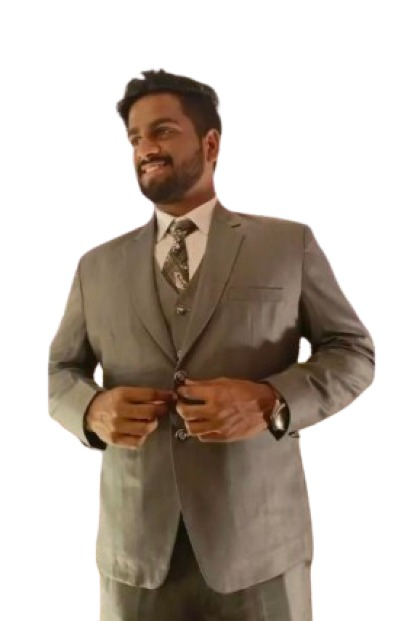
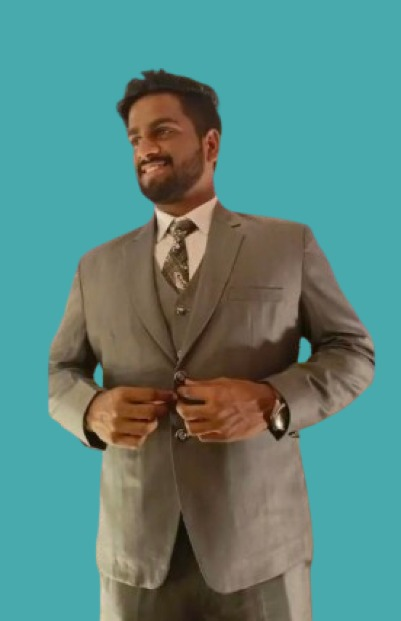
photo

diff --git a/styles.css b/styles.css
@@ -282,7 +282,7 @@ body, html {
 }
 
 #about {
-    background-color: white;
+    background-color: #48AAAD;
 	padding: 50px 20px; 
     color: white;
 }
